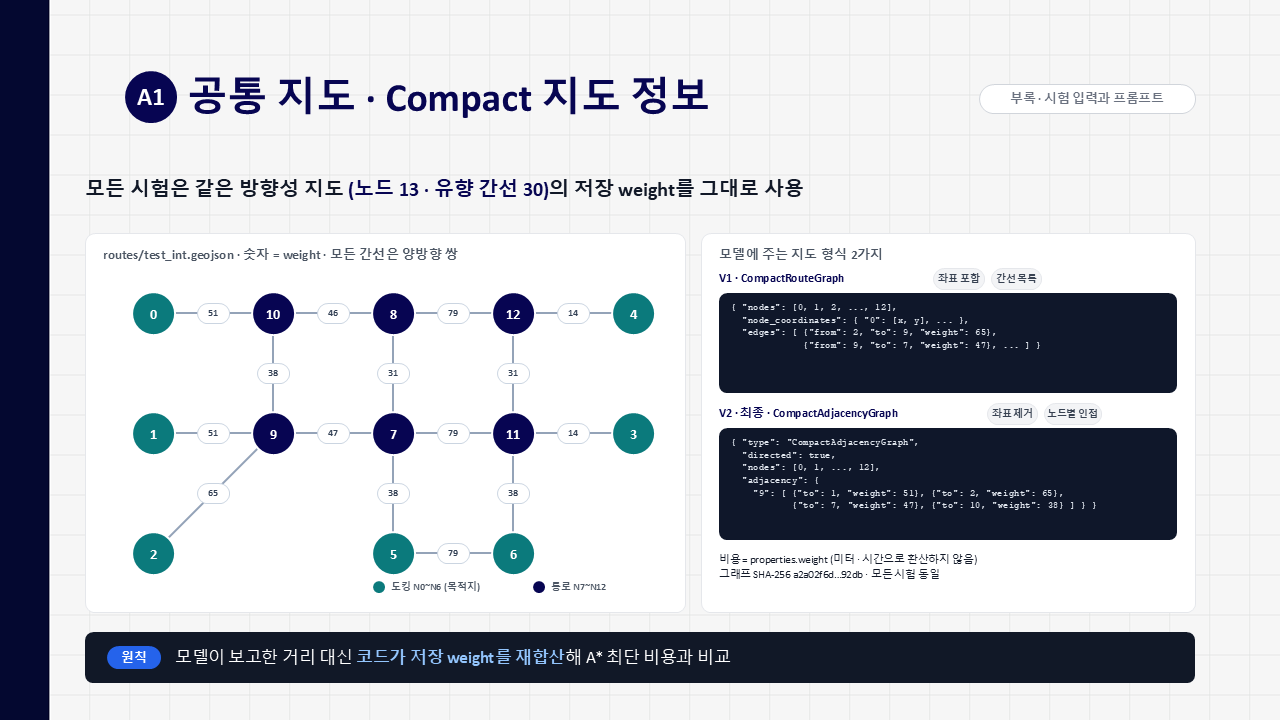
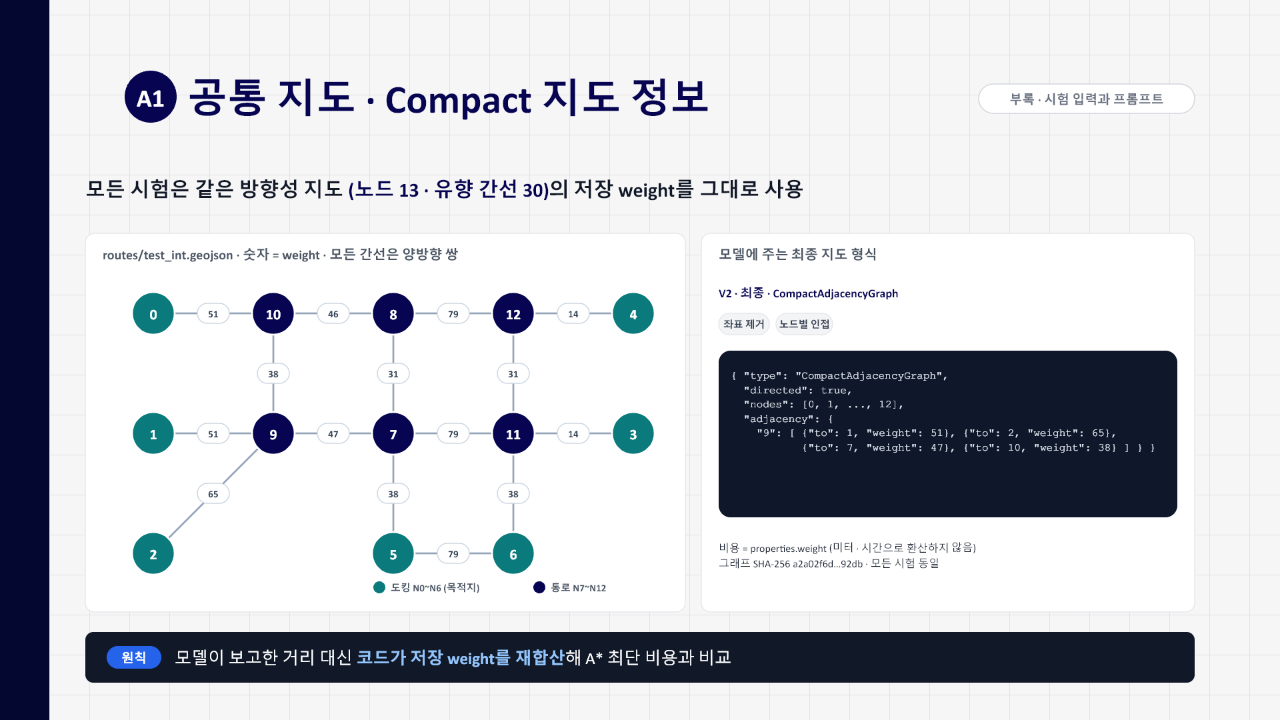
Remove V1 map format and realign A1 slide

diff --git a/index.html b/index.html
@@ -362,7 +362,7 @@
               </video>
               <figcaption>09 · LLM 경로 생성 및 시뮬레이션 주행 시연 · <a href="assets/fms-llm-route-demo.mp4" target="_blank" rel="noopener noreferrer">영상 파일 열기</a></figcaption>
             </figure>
-            <figure class="presentation-slide"><img src="assets/fms-presentation-10.png" alt="10장. 시험에 사용한 지도와 그래프 입력" loading="lazy" width="1280" height="720"><figcaption>10 · 지도와 그래프 입력</figcaption></figure>
+            <figure class="presentation-slide"><img src="assets/fms-presentation-10.png?v=20261023-a1" alt="10장. 시험에 사용한 지도와 그래프 입력" loading="lazy" width="1280" height="720"><figcaption>10 · 지도와 그래프 입력</figcaption></figure>
             <figure class="presentation-slide"><img src="assets/fms-presentation-11.png" alt="11장. V1 입력 데이터와 프롬프트" loading="lazy" width="1280" height="720"><figcaption>11 · V1 입력과 프롬프트</figcaption></figure>
             <figure class="presentation-slide"><img src="assets/fms-presentation-12.png" alt="12장. V2 여섯 조건의 입력과 프롬프트" loading="lazy" width="1280" height="720"><figcaption>12 · V2 입력과 프롬프트</figcaption></figure>
             <figure class="presentation-slide"><img src="assets/fms-presentation-13.png" alt="13장. V2 최종 다음 노드 선택 입력" loading="lazy" width="1280" height="720"><figcaption>13 · 다음 노드 선택 입력</figcaption></figure>
